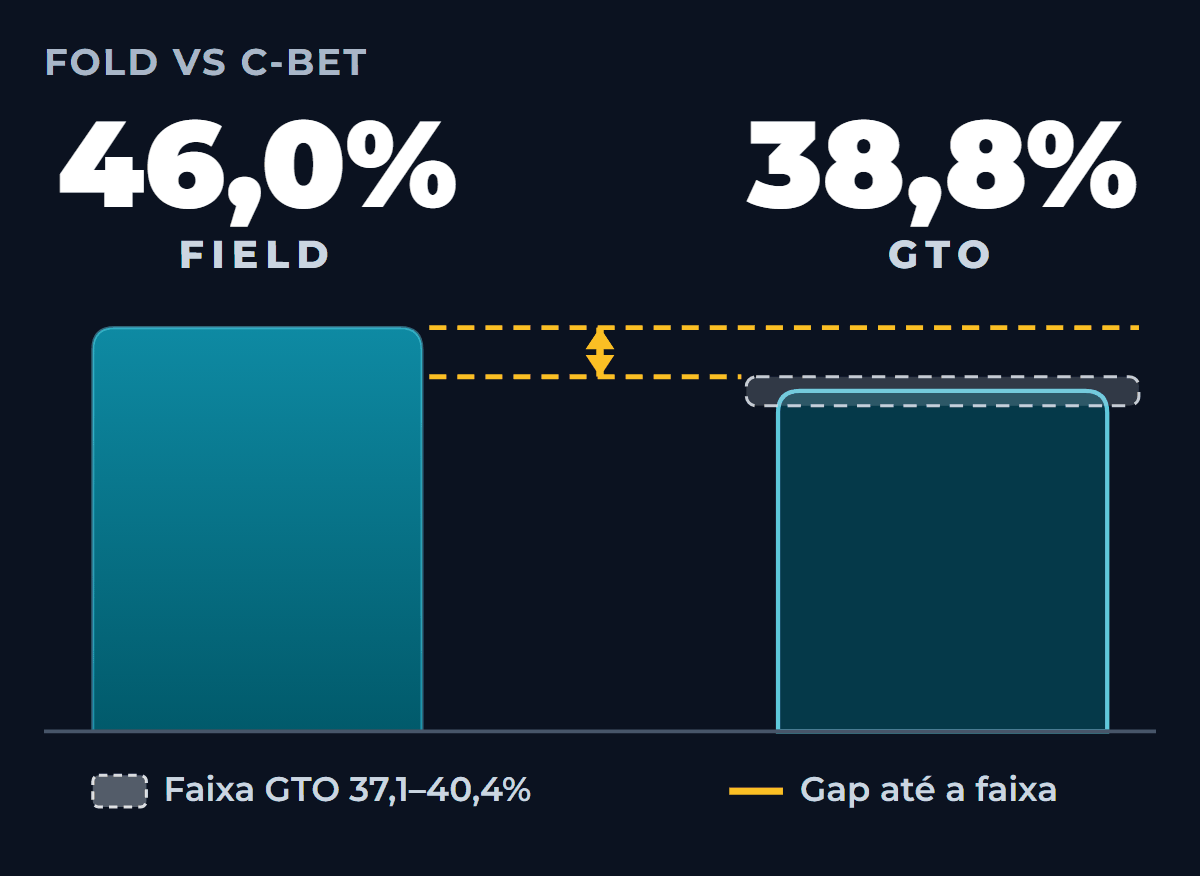
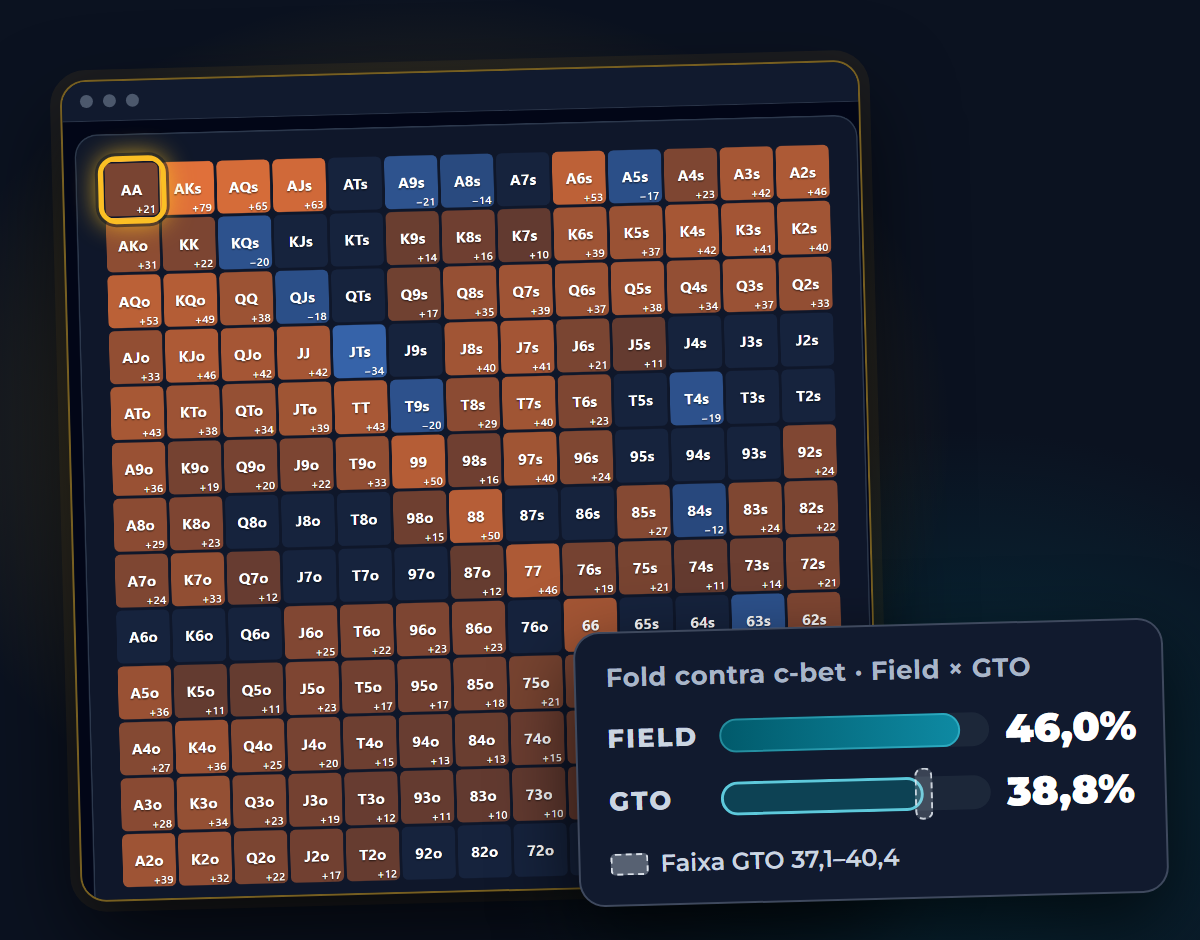
feat(modo-gto): e-mail com assunto aprovado e mockup de produto (grade Field vs GTO + cartao do c-bet)

diff --git a/content/posts/modo-gto-launch/instagram/src/_email-mockup-pt.html b/content/posts/modo-gto-launch/instagram/src/_email-mockup-pt.html
@@ -1,0 +1,31 @@
+<!DOCTYPE html><html><head><meta charset="UTF-8"><link rel="stylesheet" href="base.css"><style>
+html, body { width: 1200px; background: #0b1220; }
+#m { position: relative; width: 1200px; height: 940px; overflow: hidden; background:
+  radial-gradient(520px 440px at 36% 46%, rgba(251,191,36,.30), transparent 100%),
+  radial-gradient(480px 360px at 80% 84%, rgba(1,90,107,.40), transparent 100%), #0b1220; font-family: Montserrat, sans-serif; }
+.win { position: absolute; left: 70px; top: 70px; width: 800px; transform: rotate(-1.5deg); border-radius: 26px; overflow: hidden; background: #0B1220;
+  border: 2px solid rgba(251,191,36,.45); box-shadow: 0 40px 90px rgba(0,0,0,.65), 0 0 0 10px rgba(251,191,36,.07); }
+.win .bar { height: 40px; background: #111A2E; display: flex; align-items: center; gap: 10px; padding-left: 18px; border-bottom: 1px solid rgba(148,163,184,.2); }
+.win .bar i { width: 13px; height: 13px; border-radius: 50%; background: rgba(148,163,184,.45); }
+.gi { position: relative; width: 800px; height: 778px; } .gi img { display: block; width: 800px; }
+.ring { position: absolute; left: 34px; top: 35px; width: 68px; height: 68px; border: 5px solid #FBBF24; border-radius: 26%; box-shadow: 0 0 0 3px rgba(15,21,38,.55), 0 0 26px rgba(251,191,36,.9); }
+.card { position: absolute; right: 34px; bottom: 40px; width: 590px; background: #111A2E; border: 2px solid rgba(148,163,184,.35); border-radius: 26px; padding: 28px 30px 26px;
+  box-shadow: 0 30px 80px rgba(0,0,0,.7); transform: rotate(-1.5deg); }
+.card .t { font-size: 26px; font-weight: 700; color: #A9B6C8; letter-spacing: .02em; margin-bottom: 20px; }
+.row { display: flex; align-items: center; gap: 16px; margin-top: 14px; }
+.row .n { width: 96px; font-size: 26px; font-weight: 800; color: #CBD5E1; letter-spacing: .08em; text-transform: uppercase; }
+.track { position: relative; flex: 1; height: 34px; background: rgba(30,41,59,.9); border-radius: 999px; }
+.fill { position: absolute; left: 0; top: 0; bottom: 0; border-radius: 999px; }
+.ff { background: linear-gradient(90deg, #015A6B, #0E8AA3); box-shadow: inset 0 0 0 2px rgba(103,232,249,.35); }
+.fg { background: rgba(1,90,107,.55); box-shadow: inset 0 0 0 3px #5EC9DB; }
+.band { position: absolute; top: -9px; bottom: -9px; background: rgba(203,213,225,.22); border: 2px dashed rgba(226,232,240,.85); border-radius: 8px; }
+.row .v { width: 128px; text-align: right; font-size: 40px; font-weight: 900; color: #fff; }
+.leg { display: flex; align-items: center; gap: 12px; margin-top: 24px; font-size: 24px; font-weight: 600; color: #CBD5E1; }
+.leg i { width: 38px; height: 22px; border-radius: 5px; background: rgba(203,213,225,.38); border: 2px dashed rgba(226,232,240,.95); }
+</style></head><body><div id="m">
+<div class="win"><div class="bar"><i></i><i></i><i></i></div><div class="gi"><img src="assets/prod-field-vs-gto.png"><div class="ring"></div></div></div>
+<div class="card"><div class="t">Fold contra c-bet · Field × GTO</div>
+<div class="row"><span class="n">Field</span><div class="track"><div class="fill ff" style="width:89.3%"></div></div><span class="v">46,0%</span></div>
+<div class="row"><span class="n">GTO</span><div class="track"><div class="fill fg" style="width:75.3%"></div><div class="band" style="left:72.0%;width:6.4%"></div></div><span class="v">38,8%</span></div>
+<div class="leg"><i></i>Faixa GTO 37,1–40,4</div></div>
+</div></body></html>

diff --git a/content/posts/modo-gto-launch/instagram/src/_email-mockup-en.html b/content/posts/modo-gto-launch/instagram/src/_email-mockup-en.html
@@ -1,0 +1,31 @@
+<!DOCTYPE html><html><head><meta charset="UTF-8"><link rel="stylesheet" href="base.css"><style>
+html, body { width: 1200px; background: #0b1220; }
+#m { position: relative; width: 1200px; height: 940px; overflow: hidden; background:
+  radial-gradient(520px 440px at 36% 46%, rgba(251,191,36,.30), transparent 100%),
+  radial-gradient(480px 360px at 80% 84%, rgba(1,90,107,.40), transparent 100%), #0b1220; font-family: Montserrat, sans-serif; }
+.win { position: absolute; left: 70px; top: 70px; width: 800px; transform: rotate(-1.5deg); border-radius: 26px; overflow: hidden; background: #0B1220;
+  border: 2px solid rgba(251,191,36,.45); box-shadow: 0 40px 90px rgba(0,0,0,.65), 0 0 0 10px rgba(251,191,36,.07); }
+.win .bar { height: 40px; background: #111A2E; display: flex; align-items: center; gap: 10px; padding-left: 18px; border-bottom: 1px solid rgba(148,163,184,.2); }
+.win .bar i { width: 13px; height: 13px; border-radius: 50%; background: rgba(148,163,184,.45); }
+.gi { position: relative; width: 800px; height: 778px; } .gi img { display: block; width: 800px; }
+.ring { position: absolute; left: 34px; top: 35px; width: 68px; height: 68px; border: 5px solid #FBBF24; border-radius: 26%; box-shadow: 0 0 0 3px rgba(15,21,38,.55), 0 0 26px rgba(251,191,36,.9); }
+.card { position: absolute; right: 34px; bottom: 40px; width: 590px; background: #111A2E; border: 2px solid rgba(148,163,184,.35); border-radius: 26px; padding: 28px 30px 26px;
+  box-shadow: 0 30px 80px rgba(0,0,0,.7); transform: rotate(-1.5deg); }
+.card .t { font-size: 26px; font-weight: 700; color: #A9B6C8; letter-spacing: .02em; margin-bottom: 20px; }
+.row { display: flex; align-items: center; gap: 16px; margin-top: 14px; }
+.row .n { width: 96px; font-size: 26px; font-weight: 800; color: #CBD5E1; letter-spacing: .08em; text-transform: uppercase; }
+.track { position: relative; flex: 1; height: 34px; background: rgba(30,41,59,.9); border-radius: 999px; }
+.fill { position: absolute; left: 0; top: 0; bottom: 0; border-radius: 999px; }
+.ff { background: linear-gradient(90deg, #015A6B, #0E8AA3); box-shadow: inset 0 0 0 2px rgba(103,232,249,.35); }
+.fg { background: rgba(1,90,107,.55); box-shadow: inset 0 0 0 3px #5EC9DB; }
+.band { position: absolute; top: -9px; bottom: -9px; background: rgba(203,213,225,.22); border: 2px dashed rgba(226,232,240,.85); border-radius: 8px; }
+.row .v { width: 128px; text-align: right; font-size: 40px; font-weight: 900; color: #fff; }
+.leg { display: flex; align-items: center; gap: 12px; margin-top: 24px; font-size: 24px; font-weight: 600; color: #CBD5E1; }
+.leg i { width: 38px; height: 22px; border-radius: 5px; background: rgba(203,213,225,.38); border: 2px dashed rgba(226,232,240,.95); }
+</style></head><body><div id="m">
+<div class="win"><div class="bar"><i></i><i></i><i></i></div><div class="gi"><img src="assets/prod-field-vs-gto.png"><div class="ring"></div></div></div>
+<div class="card"><div class="t">Fold vs c-bet · Field × GTO</div>
+<div class="row"><span class="n">Field</span><div class="track"><div class="fill ff" style="width:89.3%"></div></div><span class="v">46.0%</span></div>
+<div class="row"><span class="n">GTO</span><div class="track"><div class="fill fg" style="width:75.3%"></div><div class="band" style="left:72.0%;width:6.4%"></div></div><span class="v">38.8%</span></div>
+<div class="leg"><i></i>GTO range 37.1–40.4</div></div>
+</div></body></html>

diff --git a/content/posts/modo-gto-launch/email-en.html b/content/posts/modo-gto-launch/email-en.html
@@ -7,7 +7,7 @@
   <meta name="color-scheme" content="dark light">
   <meta name="supported-color-schemes" content="dark light">
   <meta name="x-apple-disable-message-reformatting">
-  <title>GTO Mode is live</title>
+  <title>GTO on the flop, turn and river, next to the field</title>
 </head>
 <body style="margin:0; padding:0; width:100%; background-color:#070a12; -webkit-text-size-adjust:100%; -ms-text-size-adjust:100%;">
   <div style="display:none; max-height:0; overflow:hidden; mso-hide:all; font-size:1px; line-height:1px; color:#070a12; opacity:0;">Included in the Individual plan, for a limited time. GTO on the flop, turn and river, next to the field.</div>
@@ -40,7 +40,7 @@
           </tr>
           <tr>
             <td style="padding-top:18px; padding-right:34px; padding-bottom:4px; padding-left:34px;" align="center">
-              <img src="https://www.aurapoker.com/email/modo-gto-en.png" width="552" height="186" alt="GTO Mode in Postflop Analysis: the field number and the GTO number with the GTO range, side by side, in the same spot." style="display:block; width:100%; max-width:552px; height:auto; border:0; outline:none; text-decoration:none;">
+              <img src="https://www.aurapoker.com/email/modo-gto-en.png" width="552" height="432" alt="Aura window showing the Field vs GTO hand grid and the field and GTO fold bars for the same spot." style="display:block; width:100%; max-width:552px; height:auto; border:0; outline:none; text-decoration:none;">
             </td>
           </tr>
           <tr>

diff --git a/content/posts/modo-gto-launch/email-pt.html b/content/posts/modo-gto-launch/email-pt.html
@@ -7,7 +7,7 @@
   <meta name="color-scheme" content="dark light">
   <meta name="supported-color-schemes" content="dark light">
   <meta name="x-apple-disable-message-reformatting">
-  <title>Modo GTO no ar</title>
+  <title>O GTO no flop, turn e river, ao lado do field</title>
 </head>
 <body style="margin:0; padding:0; width:100%; background-color:#070a12; -webkit-text-size-adjust:100%; -ms-text-size-adjust:100%;">
   <div style="display:none; max-height:0; overflow:hidden; mso-hide:all; font-size:1px; line-height:1px; color:#070a12; opacity:0;">Incluso no plano Individual, por tempo limitado. O GTO no flop, turn e river, ao lado do field.</div>
@@ -40,7 +40,7 @@
           </tr>
           <tr>
             <td style="padding-top:18px; padding-right:34px; padding-bottom:4px; padding-left:34px;" align="center">
-              <img src="https://www.aurapoker.com/email/modo-gto-pt.png" width="552" height="403" alt="Duas barras de fold no mesmo spot: field 46,0% e GTO 38,8%, com a faixa GTO de 37,1 a 40,4%." style="display:block; width:100%; max-width:552px; height:auto; border:0; outline:none; text-decoration:none;">
+              <img src="https://www.aurapoker.com/email/modo-gto-pt.png" width="552" height="432" alt="Duas barras de fold no mesmo spot: field 46,0% e GTO 38,8%, com a faixa GTO de 37,1 a 40,4%." style="display:block; width:100%; max-width:552px; height:auto; border:0; outline:none; text-decoration:none;">
             </td>
           </tr>
           <tr>

diff --git a/content/posts/modo-gto-launch/email-en.preview.html b/content/posts/modo-gto-launch/email-en.preview.html
@@ -7,7 +7,7 @@
   <meta name="color-scheme" content="dark light">
   <meta name="supported-color-schemes" content="dark light">
   <meta name="x-apple-disable-message-reformatting">
-  <title>GTO Mode is live</title>
+  <title>GTO on the flop, turn and river, next to the field</title>
 </head>
 <body style="margin:0; padding:0; width:100%; background-color:#070a12; -webkit-text-size-adjust:100%; -ms-text-size-adjust:100%;">
   <div style="display:none; max-height:0; overflow:hidden; mso-hide:all; font-size:1px; line-height:1px; color:#070a12; opacity:0;">Included in the Individual plan, for a limited time. GTO on the flop, turn and river, next to the field.</div>
@@ -40,7 +40,7 @@
           </tr>
           <tr>
             <td style="padding-top:18px; padding-right:34px; padding-bottom:4px; padding-left:34px;" align="center">
-              <img src="email/modo-gto-en.png" width="552" height="186" alt="GTO Mode in Postflop Analysis: the field number and the GTO number with the GTO range, side by side, in the same spot." style="display:block; width:100%; max-width:552px; height:auto; border:0; outline:none; text-decoration:none;">
+              <img src="email/modo-gto-en.png" width="552" height="432" alt="Aura window showing the Field vs GTO hand grid and the field and GTO fold bars for the same spot." style="display:block; width:100%; max-width:552px; height:auto; border:0; outline:none; text-decoration:none;">
             </td>
           </tr>
           <tr>

diff --git a/content/posts/modo-gto-launch/email-pt.preview.html b/content/posts/modo-gto-launch/email-pt.preview.html
@@ -7,7 +7,7 @@
   <meta name="color-scheme" content="dark light">
   <meta name="supported-color-schemes" content="dark light">
   <meta name="x-apple-disable-message-reformatting">
-  <title>Modo GTO no ar</title>
+  <title>O GTO no flop, turn e river, ao lado do field</title>
 </head>
 <body style="margin:0; padding:0; width:100%; background-color:#070a12; -webkit-text-size-adjust:100%; -ms-text-size-adjust:100%;">
   <div style="display:none; max-height:0; overflow:hidden; mso-hide:all; font-size:1px; line-height:1px; color:#070a12; opacity:0;">Incluso no plano Individual, por tempo limitado. O GTO no flop, turn e river, ao lado do field.</div>
@@ -40,7 +40,7 @@
           </tr>
           <tr>
             <td style="padding-top:18px; padding-right:34px; padding-bottom:4px; padding-left:34px;" align="center">
-              <img src="email/modo-gto-pt.png" width="552" height="403" alt="Duas barras de fold no mesmo spot: field 46,0% e GTO 38,8%, com a faixa GTO de 37,1 a 40,4%." style="display:block; width:100%; max-width:552px; height:auto; border:0; outline:none; text-decoration:none;">
+              <img src="email/modo-gto-pt.png" width="552" height="432" alt="Duas barras de fold no mesmo spot: field 46,0% e GTO 38,8%, com a faixa GTO de 37,1 a 40,4%." style="display:block; width:100%; max-width:552px; height:auto; border:0; outline:none; text-decoration:none;">
             </td>
           </tr>
           <tr>

diff --git a/content/posts/modo-gto-launch/instagram/src/build_email.py b/content/posts/modo-gto-launch/instagram/src/build_email.py
@@ -21,6 +21,7 @@ from PIL import Image, ImageDraw, ImageFont
 from playwright.sync_api import sync_playwright
 
 import lib
+import build as B
 from lib import ASSETS, EMAIL, POST, SRC, Ex, chart_svg, find_print, fnum, has_text, pct, ph_email
 
 BG_MAIL = (11, 18, 32)  # #0b1220
@@ -33,7 +34,7 @@ FONTB = "C:/Windows/Fonts/segoeuib.ttf"
 
 CP = {
     "pt": dict(
-        lang_attr="pt-BR", subject="Modo GTO no ar", h1="Modo GTO no ar",
+        lang_attr="pt-BR", subject="O GTO no flop, turn e river, ao lado do field", h1="Modo GTO no ar",
         tagline="O GTO e o field na mesma tela.",
         pre="Incluso no plano Individual, por tempo limitado. O GTO no flop, turn e river, ao lado do field.",
         btn="Conhecer o Modo GTO",
@@ -44,11 +45,11 @@ CP = {
         draft="RASCUNHO · NÃO ENVIAR · falta: ",
     ),
     "en": dict(
-        lang_attr="en", subject="GTO Mode is live", h1="GTO Mode is live",
+        lang_attr="en", subject="GTO on the flop, turn and river, next to the field", h1="GTO Mode is live",
         tagline="GTO and the field on the same screen.",
         pre="Included in the Individual plan, for a limited time. GTO on the flop, turn and river, next to the field.",
         btn="See GTO Mode",
-        alt="GTO Mode in Postflop Analysis: the field number and the GTO number with the GTO range, side by side, in the same spot.",
+        alt="Aura window showing the Field vs GTO hand grid and the field and GTO fold bars for the same spot.",
         f1="You received this email because you created an account on Aura Poker Analytics.",
         f2='Don\'t want emails like this anymore? <a href="{{{RESEND_UNSUBSCRIBE_URL}}}" style="color:#aab6c8; text-decoration:underline;">Unsubscribe</a> · Questions? Find us on <a href="https://discord.gg/wYquSmUtAK" style="color:#aab6c8; text-decoration:underline;">Discord</a>.',
         f3="Reach us:",
@@ -144,11 +145,92 @@ def bars_image(lang, n, pw):
     return Image.open(tmp).convert("RGB")
 
 
+CARD_L = {"pt": ("Fold contra c-bet · Field × GTO", "Faixa GTO", "Field", "GTO"),
+          "en": ("Fold vs c-bet · Field × GTO", "GTO range", "Field", "GTO")}
+MW, MH = 1200, 940
+
+
+def mockup_html(lang, n):
+    """Mockup do e-mail: janela do app com a captura real da grade 13x13 (neutra de idioma, anel no AA) e, sobreposto no canto
+    inferior direito e saindo da janela, um cartao renderizado com as barras field x GTO do c-bet de 33% e a faixa."""
+    f = n.get("fvg") or {}
+    cap = B.fvg_capture(n)
+    box = f.get("grid_box")
+    fn, cw, ch = cap
+    WW = 800
+    ih = round(WW * ch / cw)
+    c = f.get("crop") or [0, 0, 1, 1]
+    gx0, gx1 = (box[0] - c[0]) / (c[2] - c[0]), (box[2] - c[0]) / (c[2] - c[0])
+    gy0, gy1 = (box[1] - c[1]) / (c[3] - c[1]), (box[3] - c[1]) / (c[3] - c[1])
+    cw_, chh = (gx1 - gx0) * WW / 13, (gy1 - gy0) * ih / 13
+    cx, cy = gx0 * WW + cw_ / 2, gy0 * ih + chh / 2
+    rw, rh = cw_ * 1.22, chh * 1.22
+    ex = Ex(n, lang)
+    lab, rng_lab, f_lab, g_lab = CARD_L[lang]
+    top = max(ex.n2, ex.hi, ex.c) * 1.12
+    sc = lambda v: v / top * 100
+    rng = f"{fnum(ex.lo, lang, n)}\u2013{fnum(ex.hi, lang, n)}"
+    return f"""<!DOCTYPE html><html><head><meta charset="UTF-8"><link rel="stylesheet" href="base.css"><style>
+html, body {{ width: {MW}px; background: #0b1220; }}
+#m {{ position: relative; width: {MW}px; height: {MH}px; overflow: hidden; background:
+  radial-gradient(520px 440px at 36% 46%, rgba(251,191,36,.30), transparent 100%),
+  radial-gradient(480px 360px at 80% 84%, rgba(1,90,107,.40), transparent 100%), #0b1220; font-family: Montserrat, sans-serif; }}
+.win {{ position: absolute; left: 70px; top: 70px; width: {WW}px; transform: rotate(-1.5deg); border-radius: 26px; overflow: hidden; background: #0B1220;
+  border: 2px solid rgba(251,191,36,.45); box-shadow: 0 40px 90px rgba(0,0,0,.65), 0 0 0 10px rgba(251,191,36,.07); }}
+.win .bar {{ height: 40px; background: #111A2E; display: flex; align-items: center; gap: 10px; padding-left: 18px; border-bottom: 1px solid rgba(148,163,184,.2); }}
+.win .bar i {{ width: 13px; height: 13px; border-radius: 50%; background: rgba(148,163,184,.45); }}
+.gi {{ position: relative; width: {WW}px; height: {ih}px; }} .gi img {{ display: block; width: {WW}px; }}
+.ring {{ position: absolute; left: {cx - rw / 2:.0f}px; top: {cy - rh / 2:.0f}px; width: {rw:.0f}px; height: {rh:.0f}px; border: 5px solid #FBBF24; border-radius: 26%; box-shadow: 0 0 0 3px rgba(15,21,38,.55), 0 0 26px rgba(251,191,36,.9); }}
+.card {{ position: absolute; right: 34px; bottom: 40px; width: 590px; background: #111A2E; border: 2px solid rgba(148,163,184,.35); border-radius: 26px; padding: 28px 30px 26px;
+  box-shadow: 0 30px 80px rgba(0,0,0,.7); transform: rotate(-1.5deg); }}
+.card .t {{ font-size: 26px; font-weight: 700; color: #A9B6C8; letter-spacing: .02em; margin-bottom: 20px; }}
+.row {{ display: flex; align-items: center; gap: 16px; margin-top: 14px; }}
+.row .n {{ width: 96px; font-size: 26px; font-weight: 800; color: #CBD5E1; letter-spacing: .08em; text-transform: uppercase; }}
+.track {{ position: relative; flex: 1; height: 34px; background: rgba(30,41,59,.9); border-radius: 999px; }}
+.fill {{ position: absolute; left: 0; top: 0; bottom: 0; border-radius: 999px; }}
+.ff {{ background: linear-gradient(90deg, #015A6B, #0E8AA3); box-shadow: inset 0 0 0 2px rgba(103,232,249,.35); }}
+.fg {{ background: rgba(1,90,107,.55); box-shadow: inset 0 0 0 3px #5EC9DB; }}
+.band {{ position: absolute; top: -9px; bottom: -9px; background: rgba(203,213,225,.22); border: 2px dashed rgba(226,232,240,.85); border-radius: 8px; }}
+.row .v {{ width: 128px; text-align: right; font-size: 40px; font-weight: 900; color: #fff; }}
+.leg {{ display: flex; align-items: center; gap: 12px; margin-top: 24px; font-size: 24px; font-weight: 600; color: #CBD5E1; }}
+.leg i {{ width: 38px; height: 22px; border-radius: 5px; background: rgba(203,213,225,.38); border: 2px dashed rgba(226,232,240,.95); }}
+</style></head><body><div id="m">
+<div class="win"><div class="bar"><i></i><i></i><i></i></div><div class="gi"><img src="assets/{fn}"><div class="ring"></div></div></div>
+<div class="card"><div class="t">{lab}</div>
+<div class="row"><span class="n">{f_lab}</span><div class="track"><div class="fill ff" style="width:{sc(ex.n2):.1f}%"></div></div><span class="v">{pct(ex.n2, lang, n)}</span></div>
+<div class="row"><span class="n">{g_lab}</span><div class="track"><div class="fill fg" style="width:{sc(ex.c):.1f}%"></div><div class="band" style="left:{sc(ex.lo):.1f}%;width:{sc(ex.hi) - sc(ex.lo):.1f}%"></div></div><span class="v">{pct(ex.c, lang, n)}</span></div>
+<div class="leg"><i></i>{rng_lab} {rng}</div></div>
+</div></body></html>"""
+
+
+def mockup_image(lang, n, pw):
+    f = SRC / f"_email-mockup-{lang}.html"
+    f.write_text(mockup_html(lang, n), encoding="utf-8")
+    pg = pw.new_page(viewport={"width": MW, "height": MH}, device_scale_factor=1)
+    pg.goto(f.as_uri())
+    pg.evaluate("document.fonts.ready")
+    pg.wait_for_timeout(300)
+    tmp = ASSETS / f"_email-mockup-{lang}.png"
+    pg.locator("#m").screenshot(path=str(tmp))
+    pg.close()
+    return Image.open(tmp).convert("RGB")
+
+
 def slot_image(lang, n, pw):
     """Retorna (imagem PIL, pendente: bool, motivos)."""
     mode = n.get("email_image", "print")
     if isinstance(mode, dict):                      # por idioma: {"pt": "bars", "en": "print"}
         mode = mode.get(lang, "print")
+    if mode == "mockup":
+        ex = Ex(n, lang)
+        miss = ex.missing()
+        if not B.find_print("field-vs-gto-sb-rfi-60bb"):
+            miss.append("print:field-vs-gto-sb-rfi-60bb")
+        if not (n.get("fvg") or {}).get("grid_box"):
+            miss.append("fvg.grid_box")
+        if miss:
+            return placeholder_image(lang), True, [f"imagem:{m}" for m in miss]
+        return mockup_image(lang, n, pw), False, []
     if mode == "bars":
         ex = Ex(n, lang)
         miss = ex.missing()
@@ -266,8 +348,7 @@ def main():
             dst = EMAIL / f"{stem}.png"
             other = EMAIL / (f"modo-gto-{lang}.png" if pending else f"modo-gto-{lang}-DRAFT.png")
             other.unlink(missing_ok=True)
-            q = im.quantize(colors=256, method=Image.Quantize.MEDIANCUT, dither=Image.Dither.FLOYDSTEINBERG)
-            q.save(dst, optimize=True)
+            im.save(dst, optimize=True)
             chk = Image.open(dst)
             hd = round(chk.height * 552 / chk.width)
             print(dst.name, chk.size, chk.mode, round(dst.stat().st_size / 1024), "KB", "(provisoria)" if pending else "")

diff --git a/content/posts/modo-gto-launch/copy.md b/content/posts/modo-gto-launch/copy.md
@@ -33,6 +33,7 @@ Peças deste pacote: Discord (também em `discord.md`), Instagram (feed, story, 
 10. **Linha de fonte do preço (pedido à HUB).** As peças citam o preço do Individual (US$ 29 / R$ 150 mensal) e nenhum dos dois `numeros-verificados` tem linha de fonte para ele (`golive-gto-2026-10-04` e `golive-gto-2026-10-14/numeros-verificados-lancamento.md`). A HUB deve incluir uma linha de preço (Individual US$ 29 / R$ 150 mensal) em `numeros-verificados-lancamento.md`, com a origem (`pricing.ts`, `billingPlans.ts`, checkout/Stripe); até lá, a fonte é a indicação da HUB e a conferência do Rafael no Stripe.
 11. **GATE A2: frase da conta grátis.** "A conta grátis segue com o field e a comparação com o MDF" (feed PT e EN, Discord, landing, e-mail) só fica se o teste logado do Rafael confirmar, com uma conta Grátis, que ela continua vendo o field e a comparação com o MDF sem o número GTO. Se não confirmar, a frase sai de todas as peças.
 12. **GATE P-53: Field vs GTO (slide 3 e legenda do carrossel).** O Field vs GTO está no ar desde 15/10 (P-53), mas o teste logado do Rafael (`roteiro-conferencia-rafael.md`) precisa conferir as marcas 132 / 148 / 74 do SB open (RFI) a 50bb+ antes de qualquer post. Ressalvas: (a) a visão compara só spots com GTO, e a cobertura do Field Ranges × GTO é parcial: nenhuma peça fala em "todos os spots"; (b) o limiar das marcas (10 pp, `FieldRangesGtoMinSeverity=3`, com n ≥ 90 e o GTO fora do intervalo do field) pode mudar com o pin do GTO ou com a reagregação do field, e os números mudam junto (com 5 pp seriam outros); (c) as contagens se sobrepõem, porque uma mão pode ter marca em mais de uma ação; (d) a captura do slide 3 só vale se mostrar 132 / 148 / 74 e o AA com anel, sem o painel do AA; (e) **o teste logado do Rafael confere 132 / 148 / 74 com os mesmos filtros da captura** (todos os torneios, buy-ins e etapas, período padrão da tela) **e anota quais filtros usou**; a legenda diz "SB open at 50bb+ (GTO at 60bb)", e a definição de marca ("10 pp or more away from GTO") e o código de cores (laranja: o field abre a mão mais que o GTO; azul: menos; números = diferença em pp) vêm da tela e do P-53.
+13. **E-mail aprovado pelo Rafael (direto, 15/10).** O assunto (PT "O GTO no flop, turn e river, ao lado do field", EN "GTO on the flop, turn and river, next to the field") e o corpo do e-mail estão aprovados; o corpo não muda. O assunto de envio e o `<title>` do HTML usam esse texto. A imagem agora é um mockup de produto (ver `email.md`). A aprovação não dispensa os gates de envio (P-61, Stripe, GATE B1, GATE A2, hospedagem das imagens, GATE P-53).
 
 ## Decisões registradas
 - **Cobertura (texto final, HUB 14/10).** PT: "GTO no flop, no turn e no river. No flop, a reação ao c-bet e ao raise. No turn e no river, também a frequência de aposta do agressor (second barrel, delayed c-bet, probe no turn, third barrel)." EN: "GTO on the flop, turn and river. On the flop, the response to the c-bet and to the raise. On the turn and river, also the aggressor's betting frequency (second barrel, delayed c-bet, turn probe, third barrel)." Nas legendas curtas e no e-mail, versão curta: "no flop, turn e river" e "inclusive as aberturas do agressor no turn e no river", com a lista só "second barrel, delayed c-bet e third barrel" quando houver lista (EN "on the flop, turn and river" e "including the aggressor's openings on the turn and river"; "second barrel, delayed c-bet and third barrel").
@@ -137,7 +138,7 @@ Notas de arte:
 ## Strings para o agente das artes e do HTML (não editei `instagram/src`)
 - **`build.py`:** `story-capa-pt` → título "Modo GTO<br><em>no ar</em>", apoio "Incluso no plano Individual (R$ 150/mês) por tempo limitado.", pílula NO AR, rótulo do gráfico "CO × BB · c-bet de 33% · exemplo" (no lugar do spot completo), sem segunda linha de apoio. `carrossel-en-01` → título "GTO Mode<br>is <em>live</em>", apoio "Included in Individual (US$ 29/month) for a limited time.", pílula LIVE, sem selo de oferta e sem micro-legenda. Slides 2 a 7 conforme a tabela acima (o slide 3 é o Field vs GTO, já feito pela fábrica); indicador "n / 7"; arquivos `carrossel-en-01` a `-07`.
 - **`numbers.json`:** novo bloco N11 para o Second Barrel (field 54.2; GTO centro 57.2, de 50.8, até 63.5; leitura: dentro da faixa, sem gap; fonte `numeros-verificados-lancamento.md`, 14/10); `N8`/`N9`/`N10` (Turn Delayed CBet: 51.7 / 44.1 / 37.8–50.3 / 1.4 acima do topo) seguem como estão. `textos_com_numero.c6_apoio_en` ("Part of the US$ 29/month plan, for a limited time.") sai; entram `c1_apoio_en` "Included in Individual (US$ 29/month) for a limited time.", `c1_apoio_pt` (story) "Incluso no plano Individual (R$ 150/mês) por tempo limitado.", `c1_rotulo_pt` (story) "CO × BB · c-bet de 33% · exemplo", `c3_apoio_en` "Second barrel: inside the range. Delayed c-bet: above." (turn e river), `c4_apoio_en` "CO RFI at 40bb: the field opens less than GTO." (pré-flop), `c5_titulo_en` "GTO Mode is included in Individual", `c5_numero_en` "US$ 29/month" (o número gigante) e `c5_apoio_en` "For a limited time." (plano). Os nomes das chaves seguem o que o build usa, não o número do slide. O slide 3 (Field vs GTO) tem texto fixo em `build.py` (`fvg`), sem chave em `numbers.json`: título "Field vs GTO, hand by hand", apoio "See exactly where the field's preflop strays from GTO.", rótulo "SB open (RFI) · 50bb+", legenda "Marks by action: 132 RFI · 148 limp · 74 fold". Marcas do Field vs GTO (registro, não vão como texto de arte além da legenda): raise 132, limp 148, fold 74, SB, RFI, 50bb+ (faixa 6), snapshot `20261010`. `email_under_pt` "O Modo GTO está incluso no plano Individual (R$ 150/mês) por tempo limitado. A conta grátis segue com o field e a comparação com o MDF. Poker é jogo de habilidade e estudo. 18+." e `email_under_en` "GTO Mode is included in the Individual plan (US$ 29/month) for a limited time. The free account keeps the field and the MDF comparison. Poker is a game of skill and study. 18+." Preheaders do e-mail: PT "Incluso no plano Individual, por tempo limitado. O GTO no flop, turn e river, ao lado do field." EN "Included in the Individual plan, for a limited time. GTO on the flop, turn and river, next to the field."
-- **`build_email.py`:** assunto e h1 PT "Modo GTO no ar" e EN "GTO Mode is live" (o HTML do e-mail já foi atualizado pelo outro agente; aqui fica o registro); preheader conforme `email.md`. O corpo do e-mail (`email_corpo_*`, `email_preflop_*`) não muda.
+- **`build_email.py`:** assunto de envio e `<title>` PT "O GTO no flop, turn e river, ao lado do field" e EN "GTO on the flop, turn and river, next to the field" (aprovados pelo Rafael em 15/10); h1 do corpo PT "Modo GTO no ar" e EN "GTO Mode is live" (o corpo não muda); preheader conforme `email.md`. O corpo do e-mail (`email_corpo_*`, `email_preflop_*`) não muda.
 - **Aviso de moeda:** nenhuma string PT leva "US$" ou "R$ 29"; nenhuma string EN leva "R$".
 
 ## Legendas
@@ -262,7 +263,7 @@ Texto completo, com URLs, em `discord.md` (mesma pasta). PT e EN, abaixo de 1.20
 
 # (d) E-mail
 
-Texto, assuntos (um deles anuncia "Modo GTO no ar" / "GTO Mode is live"), preheader com "incluso no plano Individual, por tempo limitado" e notas técnicas em `email.md`. Corpo curto, um exemplo (CO × BB) e a comparação field × GTO dele. Botão "Conhecer o Modo GTO" / "See GTO Mode"; frase do plano sob o botão. A imagem do e-mail (`email/modo-gto-pt.png` e `-en.png`) tem os mesmos números do exemplo (46,0% e 38,8%, faixa 37,1–40,4%).
+Texto, assunto (aprovado pelo Rafael em 15/10: "O GTO no flop, turn e river, ao lado do field" / "GTO on the flop, turn and river, next to the field"), preheader com "incluso no plano Individual, por tempo limitado" e notas técnicas em `email.md`. Corpo curto, um exemplo (CO × BB) e a comparação field × GTO dele. Botão "Conhecer o Modo GTO" / "See GTO Mode"; frase do plano sob o botão. A imagem do e-mail (`email/modo-gto-pt.png` e `-en.png`) é um mockup de produto (janela do app com a grade 13×13 do Field vs GTO e um cartão com as barras field × GTO do c-bet de 33%) com os mesmos números do exemplo (PT 46,0% × 38,8%, EN 46.0% × 38.8%, faixa 37,1–40,4%).
 
 ---
 

diff --git a/content/posts/modo-gto-launch/email.md b/content/posts/modo-gto-launch/email.md
@@ -1,6 +1,6 @@
 # E-mail: lançamento do Modo GTO (GTO no flop, turn e river, com as aberturas do agressor)
 
-Status: rascunho sem marcadores abertos; não publicado. Não enviado, e nada foi criado no Resend. Versão de 15/10/2026 (anuncia "no ar" e a inclusão do GTO no Individual por tempo limitado, decisão do Rafael via HUB), números fechados em 14/10.
+Status: rascunho sem marcadores abertos; não publicado. Não enviado, e nada foi criado no Resend. Versão de 15/10/2026 (anuncia "no ar" e a inclusão do GTO no Individual por tempo limitado, decisão do Rafael via HUB), números fechados em 14/10. **O Rafael aprovou, direto, em 15/10, o assunto e o corpo do e-mail (PT e EN); o corpo não muda.**
 Números: exemplo (a) de `aura-main/_ops/golive-gto-2026-10-04/numeros-verificados.md` (08/10): field folda 46,0%, GTO folda 38,8%. A cobertura segue `aura-main/_ops/golive-gto-2026-10-14/numeros-verificados-lancamento.md` (14/10). Um exemplo só (CO × BB) e uma comparação só (field contra GTO). Sem número de escala, sem pré-flop concreto, sem contagem de mãos, sem o exemplo de abertura.
 **Só enviar depois do teste logado do Rafael, do P-61 no ar (Modo GTO aberto ao Individual), da conferência do preço (29 / 150) no Stripe pelo Rafael, do GATE B1 (data interna a honrar e reconciliação da landing publicada, sessão do aura-landing), do GATE A2 (frase da conta grátis), da hospedagem das imagens (aura-landing#17) e da versão de 13/10 em produção.** O botão leva à landing, mas o texto promete o módulo.
 
@@ -8,11 +8,9 @@ Números: exemplo (a) de `aura-main/_ops/golive-gto-2026-10-04/numeros-verificad
 
 ## PT
 
-**Assunto (2 opções)**
-1. Modo GTO no ar
-2. O GTO no flop, turn e river, ao lado do field
+**Assunto (aprovado pelo Rafael em 15/10):** O GTO no flop, turn e river, ao lado do field
 
-**Recomendado: a 1.** Anuncia o lançamento pelo nome do módulo, curto, e deixa o "por tempo limitado" para o preheader e para a frase sob o botão. A 2 fica como alternativa se o Rafael preferir abrir pela descrição do que o módulo faz.
+Este é o assunto de envio e o `<title>` do HTML. Alternativa **não usada** (descartada na aprovação): "Modo GTO no ar".
 
 **Preheader:** Incluso no plano Individual, por tempo limitado. O GTO no flop, turn e river, ao lado do field.
 
@@ -34,11 +32,9 @@ Sob o botão: O Modo GTO está incluso no plano Individual (R$ 150/mês) por tem
 
 ## EN
 
-**Subject (2 options)**
-1. GTO Mode is live
-2. GTO on the flop, turn and river, next to the field
+**Subject (approved by Rafael on 15/10):** GTO on the flop, turn and river, next to the field
 
-**Recommended: 1.** It announces the launch by the module's name, short, and leaves the "for a limited time" for the preheader and the line under the button. Option 2 stays as the alternative if Rafael prefers to open with what the module does.
+This is the sending subject and the HTML `<title>`. **Unused** alternative (dropped at approval): "GTO Mode is live".
 
 **Preheader:** Included in the Individual plan, for a limited time. GTO on the flop, turn and river, next to the field.
 
@@ -60,9 +56,9 @@ Under the button: GTO Mode is included in the Individual plan (US$ 29/month) for
 
 ## Nota técnica
 
-- **Imagem:** `email/modo-gto-pt.png` e `email/modo-gto-en.png` (1200 px, geradas pela build). EN: captura recortada do card de 33% do app (`_ops/golive-gto-2026-10-04/prints/prod/postflop-en.png`: 46.0%, GTO 38.8% (37.1–40.4), Overfold +5.6 pp). PT: as duas barras renderizadas pela build (46,0% / 38,8% / faixa 37,1–40,4), porque o app em PT mistura 46.0% e 38,8% (bug do front). A captura vem do front no SHA de produção de 08/10 (aura-novofront 429c093) lendo a API local com os snapshots do go-live, não da conta de produção; os mesmos números foram confirmados em produção em 14/10, e o teste logado do Rafael os confere antes do envio. Sem selo de versão, e-mail ou nick. **Hospedar em `https://www.aurapoker.com/email/` antes do envio (aura-landing#17).**
+- **Imagem (versão de 15/10):** `email/modo-gto-pt.png` e `email/modo-gto-en.png` (1200 px, geradas pela build) agora levam um **mockup de produto**: a janela do app com a grade 13×13 do Field vs GTO (neutra de idioma) e um cartão com as barras field × GTO do c-bet de 33% renderizadas pela build, com formato por idioma: PT 46,0% × 38,8%, EN 46.0% × 38.8%, faixa 37,1–40,4% (as mesmas do exemplo (a); o texto do e-mail continua citando só 46,0% × 38,8%). Substitui a captura recortada do card (EN) e as duas barras soltas (PT). A grade é um mockup, não uma captura de conta; sem números do Field vs GTO no e-mail além do exemplo do c-bet, e sem selo de versão, e-mail ou nick. Os números do exemplo foram confirmados em produção em 14/10, e o teste logado do Rafael os confere antes do envio. **Hospedar em `https://www.aurapoker.com/email/` antes do envio (aura-landing#17).**
 - **Logo:** `https://www.aura.poker/email/aura-logo.png` (já hospedado).
-- **Link do CTA (sempre a landing, nunca o app/login; `www.aurapoker.com` com www):**
+- **Link do CTA (botão para a landing, nunca o app/login; `www.aurapoker.com` com www):**
   - PT: https://www.aurapoker.com/?utm_source=email&utm_medium=email&utm_campaign=modo-gto-launch&utm_content=pt
   - EN: https://www.aurapoker.com/?utm_source=email&utm_medium=email&utm_campaign=modo-gto-launch&utm_content=en
   - Só o logo continua hospedado em `https://www.aura.poker/email/`; não é link de destino.
